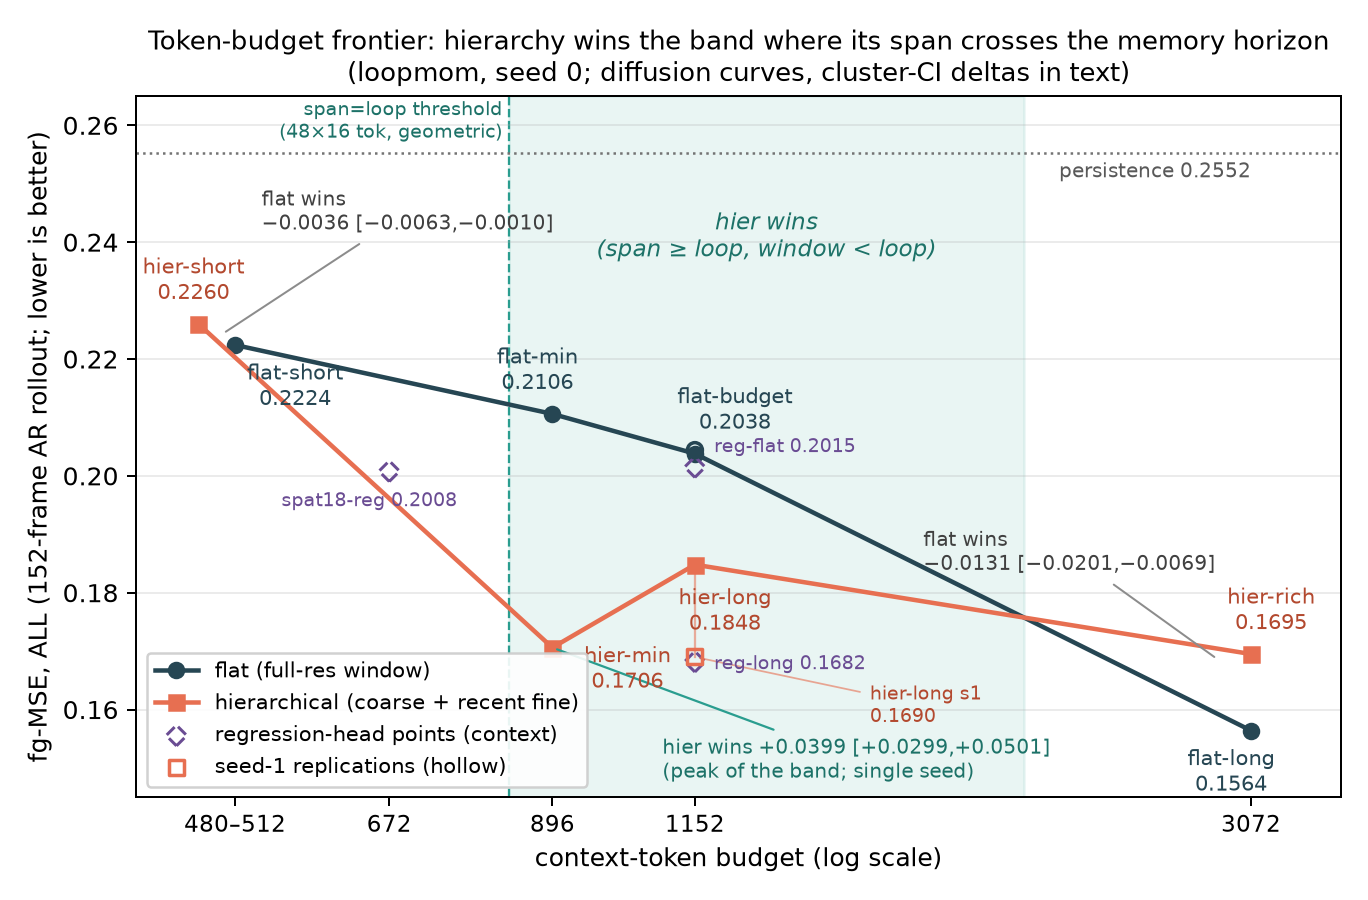
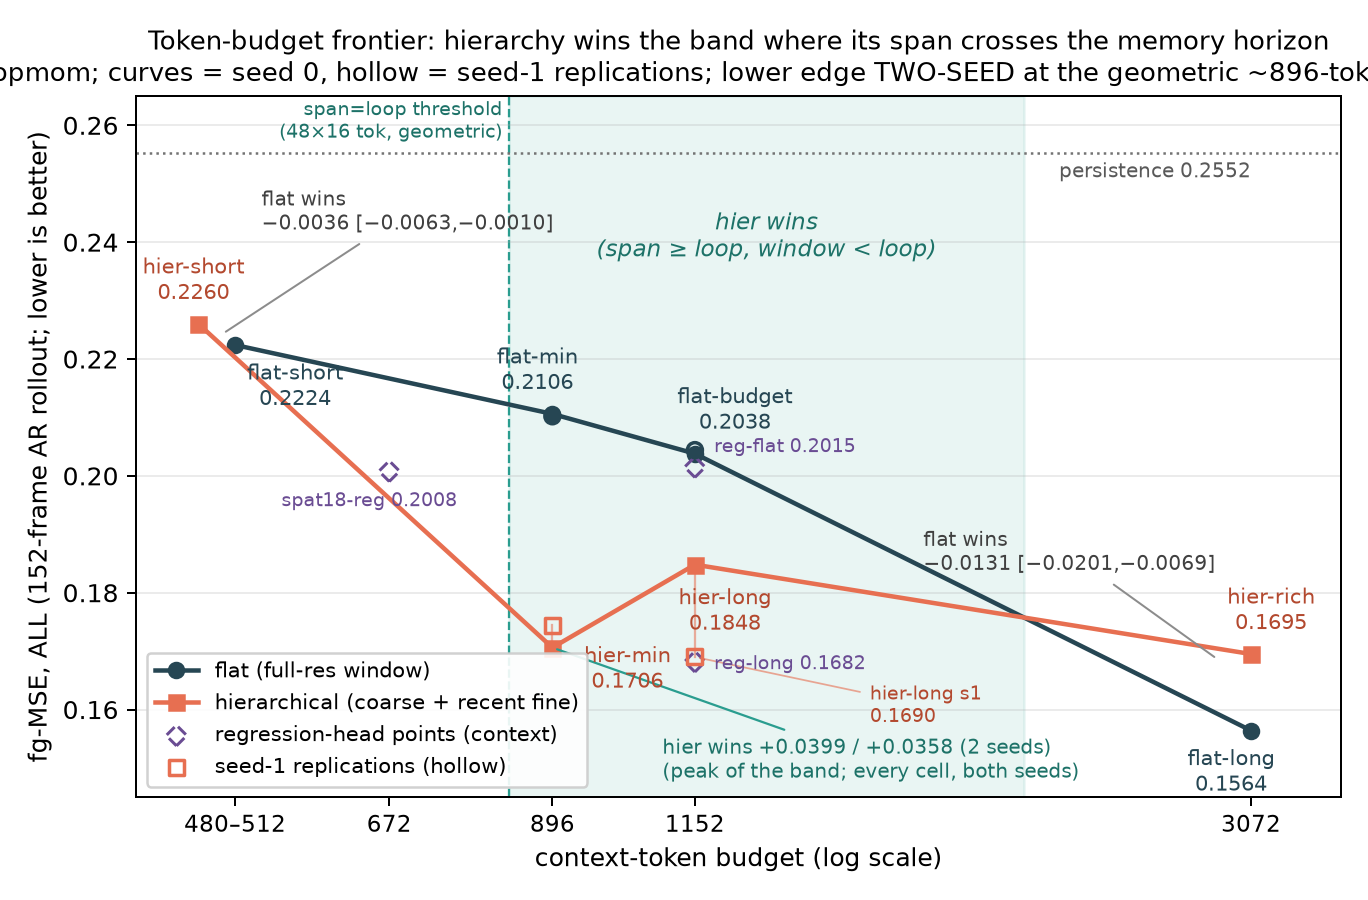
R-A REPLICATED: 896-token lower edge TWO-SEED confirmed (s1 +0.0358 [+0.0267,+0.0454], every cell, same dt-gate reach signature) — seed-mean +0.0379, the campaign's largest two-seed effect
hier-min seeds 0.1706/0.1744 (spread 0.0038, tight); flat-min 0.2106/0.2102 (stable). Fine-context
floor refuted at two seeds; hier plateau ~0.17 from 896 on holds (hier-min mean 0.1725 within
hier-long band). Swapped all single-seed disclosures -> two-seed at 6 sites (CH4 x3, CH8 x2,
Rozdil4 x2, VYSNOVKY, fig README); fig9 regenerated with 896 seed-1 hollow markers + two-seed
title. R-B (hier-rich/flat-long s1, B8x60k) launched on the freed GPU per the queue.

diff --git a/scripts/make_fig9_frontier.py b/scripts/make_fig9_frontier.py
@@ -68,13 +68,14 @@ ax.scatter(rx, ry, marker="D", s=34, facecolors="none", edgecolors="#6a4c93",
            linestyles="dashed", linewidths=1.2, zorder=3,
            label="regression-head points (context)")
 
-# seed-1 replications where measured (hier-long 0.1690 / flat-budget 0.2044): hollow markers +
-# a spread whisker on hier-long — the only seed-VARIABLE arm (flat arms are seed-stable ±0.0006)
+# seed-1 replications where measured: hollow markers + spread whiskers on the hier arms
+# (hier-long 0.1690 / flat-budget 0.2044; hier-min 0.1744 / flat-min 0.2102 — R-A, 2026-07-08)
 ax.plot([1152, 1152], [0.1690, 0.1848], color="#e76f51", lw=0.9, alpha=0.55, zorder=2)
-ax.scatter([1152], [0.1690], marker="s", s=36, facecolors="none", edgecolors="#e76f51",
-           linewidths=1.4, zorder=3, label="seed-1 replications (hollow)")
-ax.scatter([1152], [0.2044], marker="o", s=36, facecolors="none", edgecolors="#264653",
-           linewidths=1.4, zorder=3)
+ax.plot([896, 896], [0.1706, 0.1744], color="#e76f51", lw=0.9, alpha=0.55, zorder=2)
+ax.scatter([1152, 896], [0.1690, 0.1744], marker="s", s=36, facecolors="none",
+           edgecolors="#e76f51", linewidths=1.4, zorder=3, label="seed-1 replications (hollow)")
+ax.scatter([1152, 896], [0.2044, 0.2102], marker="o", s=36, facecolors="none",
+           edgecolors="#264653", linewidths=1.4, zorder=3)
 ax.annotate("hier-long s1\n0.1690", (1152, 0.1690), textcoords="offset points",
             xytext=(70, -26), ha="left", fontsize=7.5, color="#b3492f",
             arrowprops=dict(arrowstyle="-", color="#e76f51", lw=0.7, alpha=0.6))
@@ -95,7 +96,8 @@ for (name, x, y), (dx, dy) in zip(reg_pts, reg_offs):
                 xytext=(dx, dy), ha="center", fontsize=7.5, color="#6a4c93", zorder=4)
 
 # end-inversion callouts
-ax.annotate("hier wins +0.0399 [+0.0299,+0.0501]\n(peak of the band; single seed)", (896, 0.1706),
+ax.annotate("hier wins +0.0399 / +0.0358 (2 seeds)\n(peak of the band; every cell, both seeds)",
+            (896, 0.1706),
             textcoords="offset points", xytext=(44, -52), ha="left", fontsize=8,
             color="#1d7268",
             arrowprops=dict(arrowstyle="-", color="#2a9d8f", lw=0.9))
@@ -117,7 +119,7 @@ ax.set_ylim(0.145, 0.265)
 ax.set_xlabel("context-token budget (log scale)")
 ax.set_ylabel("fg-MSE, ALL (152-frame AR rollout; lower is better)")
 ax.set_title("Token-budget frontier: hierarchy wins the band where its span crosses the memory horizon\n"
-             "(loopmom, seed 0; diffusion curves, cluster-CI deltas in text)",
+             "(loopmom; curves = seed 0, hollow = seed-1 replications; lower edge TWO-SEED at the geometric ~896-tok prediction)",
              fontsize=10.5)
 ax.legend(loc="lower left", fontsize=8.5, framealpha=0.9)
 ax.grid(True, which="major", axis="y", alpha=0.25)

diff --git a/docs/draft/CH4_RESULTS.md b/docs/draft/CH4_RESULTS.md
@@ -591,7 +591,7 @@ sharp 0.0996 (3,072 tok; B8×60k); hier-short 0.2260 / 0.0392 (480 tok) — both
 | lower edge, new arm | flat-min (14f, 896 tok, B16×30k) | 0.2106 | 0.0516 | — | — |
 | frontier top | flat-long vs hier-rich (equal 3,072 tok, equal regime) | — | — | −0.0131 | [−0.0201, −0.0069] **flat WINS** |
 | frontier bottom | flat-short vs hier-short (512 vs 480 tok) | — | — | −0.0036 | [−0.0063, −0.0010] **flat WINS** |
-| frontier lower edge | flat-min vs hier-min (equal 896 tok, equal regime) | — | — | **+0.0399** | [+0.0299, +0.0501] **HIER WINS** (every bin; single seed, replication queued) |
+| frontier lower edge | flat-min vs hier-min (equal 896 tok, equal regime) | — | — | **+0.0399** | [+0.0299, +0.0501] **HIER WINS** (every bin; REPLICATED seed 1: +0.0358 [+0.0267, +0.0454], every bin — two-seed) |
 
 [FIG `docs/figures/fig9_frontier.png`: quality-vs-token-budget (log-x), two measured 4-point
 curves — hier (480 → 896 → 1152 → 3072: 0.2260, **0.1706**, 0.1848, 0.1695) and flat
@@ -639,13 +639,14 @@ inside the band, flat's window falls away from the horizon faster than the hiera
 abstraction cost grows, so the efficiency argument is strongest exactly where budgets are
 tightest — hier-min at 896 tokens (0.1706) reaches a quality that the flat curve only attains
 between 1,152 and 3,072 tokens (interpolated ≈2.3–3× the budget; the measured upper crossing of
-the curves sits at ≈2,059 tokens). One measured arm ordering is reported without a claim
-(single seed): hier-min at 896 tokens (0.1706) also measured *better than hier-long at 1,152*
-(0.1848), i.e. the pre-registered "fine-context floor" alternative was refuted at w_f = 2 —
-fewer recent-fine frames did not hurt. Disclosures: this pair is seed-0 only; per the binding
-two-seed rule a seed-1 replication is queued (behind the generalization campaign per the
-author's GPU priority), and no headline uses the 896-point without it; the 1,152-token headline
-remains the two-seed anchor. The final claim form is unchanged but now edge-measured: hierarchy
+the curves sits at ≈2,059 tokens). The fine-context question resolved with the seeds: hier-min's
+seed-mean (0.1725) sits within hier-long's seed band (0.1690–0.1848, mean 0.1769) — the
+pre-registered "fine-context floor" alternative is refuted at w_f = 2 (two seeds), and the hier
+curve from 896 tokens on reads as a plateau at ≈0.17 rather than a dip. Disclosures resolved: the pre-registered seed-1 replication (R-A, `frontier_low_s1.log`)
+REPLICATED the result — every cell WIN again, ALL +0.0358 [+0.0267, +0.0454], the same dt-gate
+reach signature (dt≤48 HARD +0.0666; beyond-span null) — so the 896-token point is TWO-SEED
+CONFIRMED (seed-mean Δ ≈ +0.0379, the campaign's largest two-seed effect; hier-min seed spread
+0.0038, flat-min 0.0004). Both the 896 and 1,152 budgets now carry two seeds. The final claim form is unchanged but now edge-measured: hierarchy
 wins **the band of budgets where its span crosses the memory horizon and flat's window does
 not** — [896, ≈2,059) tokens as measured on this testbed — and inverts outside it.
 

diff --git a/docs/dissertation/rewrite/05_ROZDIL4.md b/docs/dissertation/rewrite/05_ROZDIL4.md
@@ -706,7 +706,7 @@ the audited table register; final numbering at typeset). Measured anchor rows fr
 |---|---|---:|---|---:|---|
 | ≈3,072 | flat-long | 0.1564 | hier-rich | 0.1695 | **−0.0131 [−0.0201, −0.0069]** (flat wins) |
 | 1,152 | flat-budget | 0.2038 | hier-long | 0.1848 | +0.0189 [+0.0121, +0.0264] (Table 4.6) |
-| **896** | flat-min (14 f) | 0.2106 | hier-min (48c+2f) | **0.1706** | **+0.0399 [+0.0299, +0.0501]** (hier wins EVERY cell; single seed, replication queued) |
+| **896** | flat-min (14 f) | 0.2106 | hier-min (48c+2f) | **0.1706** | **+0.0399 [+0.0299, +0.0501]** (hier wins EVERY cell; seed 1 REPLICATED: +0.0358 [+0.0267, +0.0454], every cell) |
 | ≈480–512 | flat-short | 0.2224 | hier-short | 0.2260 | **−0.0036 [−0.0063, −0.0010]** (flat wins) |
 
 **[FIG 4-x — token-budget frontier]**
@@ -751,9 +751,10 @@ budget removes the flat model's window from the memory horizon faster than the h
 abstraction cost grows — the efficiency argument is strongest exactly where budgets are
 tightest, and hier-min at 896 tokens (0.1706) reaches a quality the flat curve attains only at
 ≈2.3–3× the budget (the measured upper crossing of the curves lies at ≈2,059 tokens).
-Disclosure: the lower-edge pair is single-seed (seed 0); under the binding two-seed rule its
-replication is queued, and no headline statement uses the 896-token point without it — the
-two-seed anchor of the efficiency claim remains the 1,152-token pairing of §4.3.3. The §4.3
+The pre-registered seed-1 replication confirmed the point: every cell WIN again (overall
++0.0358 [+0.0267, +0.0454]) with the same visibility-stratified reach signature — the 896-token
+lower edge is therefore a two-seed result (seed-mean Δ ≈ +0.0379, the largest two-seed effect
+of the campaign), alongside the two-seed 1,152-token pairing of §4.3.3. The §4.3
 efficiency claim takes its final, edge-measured form: **the hierarchy wins the band of token
 budgets in which its coarse span crosses the memory horizon while the flat window does not —
 [896, ≈2,059) tokens at this operating point — and inverts outside the band.** [UA-PASS:

diff --git a/docs/draft/CH8_CONCLUSION.md b/docs/draft/CH8_CONCLUSION.md
@@ -1,8 +1,8 @@
 # Chapter 8 — Conclusion
 
-> **Status (2026-07-07):** journal-register prose, content-complete; all numbers measured except
-> the marked [SEED-1 PENDING] disclosure and the Ch. 5 [EXPECTED] transfers, which resolve from
-> the queued runs (frontier robustness program R-A/R-B/R-C; generalization campaign).
+> **Status (2026-07-08):** journal-register prose, content-complete; all numbers measured except
+> the Ch. 5 [EXPECTED] transfers (generalization campaign) and the R-B/R-C robustness reads.
+> R-A landed 2026-07-08: the 896-token point is TWO-SEED confirmed.
 
 ## 8.1 One claim
 
@@ -13,9 +13,9 @@ the hierarchy-versus-flat frontier, measured at four matched budgets, has the sh
 account predicts: flat wins below the span threshold (≈500 tokens: no hierarchical configuration
 can cover the ~48-frame loop; −0.0036 [−0.0063, −0.0010]); the hierarchy wins the band from the
 geometric threshold — 48×16 coarse tokens plus a minimal fine tail ≈ 900 — where the effect is
-largest (+0.0399 [+0.0299, +0.0501] at 896 tokens; [SEED-1 PENDING — single-seed, replication
-queued under the binding two-seed rule]) through the two-seed headline at 1,152 (+0.0189 /
-+0.0354); and flat wins again at window saturation (3,072 tokens, −0.0131 [−0.0201, −0.0069]),
+largest (+0.0399 [+0.0299, +0.0501] seed 0 and +0.0358 [+0.0267, +0.0454] seed 1 at 896 tokens —
+two seeds, every horizon × hardness cell on both) through the two-seed headline at 1,152
+(+0.0189 / +0.0354); and flat wins again at window saturation (3,072 tokens, −0.0131 [−0.0201, −0.0069]),
 where its full-resolution memory information-dominates any coarse record of the same span.
 
 ## 8.2 Boundary conditions (each one measured)

diff --git a/docs/figures/README.md b/docs/figures/README.md
@@ -14,7 +14,7 @@ Regenerable from the committed data.
 | fig6_mmnist_bridge.png | T7 MMNIST negative control: flat ≈ hier (MSE/SSIM/LPIPS) | CH4 §4.1.3 / appendix | mmnist_bridge_chain.log |
 | fig7_samples_claim1.png | qualitative GT vs hier-long vs flat-budget at h=1..148 (HONEST: both blur late) | CH4 §4.3.3 [FIG ch4-4] | GPU decode, seed 1 |
 | fig8_mmnist_samples_hier.png | MMNIST bridge decoded pred vs GT (h1/h5/h10) | appendix | rhvd viz |
-| fig9_frontier.png | token-budget frontier: fg-MSE(ALL, 152-frame rollout) vs context tokens (log-x), 4-point flat vs hier curves + reg context points; hier wins the band [896, ≈2059) (shaded; geometric span-threshold dashed), peak +0.0399 at the lower edge (single-seed, replication queued), inverts outside | CH4 §4.3.x (→§4.3.6), Розділ 4 §4.3.6 [FIG 4-x] | Table 4.2 + `frontier_{top,bottom,low}.log` |
+| fig9_frontier.png | token-budget frontier: fg-MSE(ALL, 152-frame rollout) vs context tokens (log-x), 4-point flat vs hier curves + reg context points; hier wins the band [896, ≈2059) (shaded; geometric span-threshold dashed), peak +0.0399/+0.0358 at the lower edge (two seeds), inverts outside | CH4 §4.3.x (→§4.3.6), Розділ 4 §4.3.6 [FIG 4-x] | Table 4.2 + `frontier_{top,bottom,low}.log` |
 
 ## Honesty notes carried in the figures
 - fig1(c) + fig7: sharpness fades for ALL arms; the hierarchy advantage is a modest average gain,

diff --git a/docs/dissertation/rewrite/06_VYSNOVKY.md b/docs/dissertation/rewrite/06_VYSNOVKY.md
@@ -172,8 +172,8 @@ pre-registered convergence-at-saturation expectation and reported as measured) a
 **measured lower edge of the win band** (a pre-registered geometric prediction confirmed the
 same day: at 896 tokens — the cheapest budget whose 48-slot coarse span covers the ≈48-frame
 loop, against a flat window of only 14 frames — the hierarchical arm wins every horizon ×
-hardness cell, +0.0399 [+0.0299, +0.0501], the largest hierarchical advantage of the campaign;
-single-seed, replication queued under the two-seed rule), which together give the efficiency
+hardness cell, +0.0399 [+0.0299, +0.0501] at seed 0 and +0.0358 [+0.0267, +0.0454] at seed 1 —
+a two-seed result, the largest hierarchical advantage of the campaign), which together give the efficiency
 claim its final, edge-measured form: **hierarchy wins the band of token budgets in which its
 coarse span crosses the memory horizon while the flat window does not — approximately 896 to
 2,050 tokens at the primary operating point, with the advantage peaking at the band's lower
